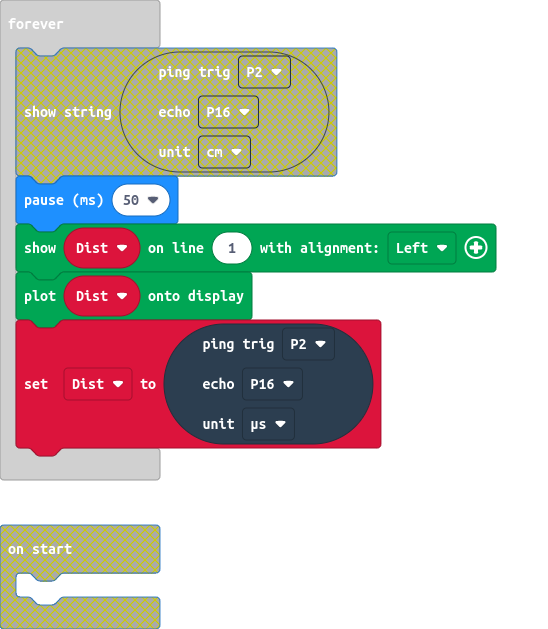
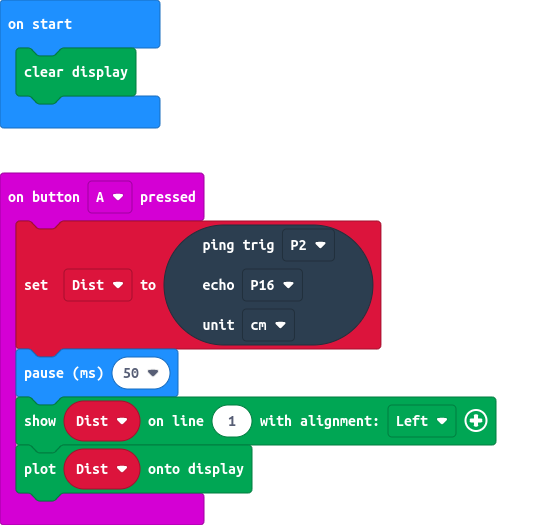
set to maual reading via A_Button

diff --git a/main.ts b/main.ts
@@ -1,11 +1,15 @@
-let Dist = 0
-basic.forever(function () {
+input.onButtonPressed(Button.A, function () {
     Dist = sonar.ping(
     DigitalPin.P2,
     DigitalPin.P16,
-    PingUnit.MicroSeconds
+    PingUnit.Centimeters
     )
     basic.pause(50)
     kitronik_VIEW128x64.show(Dist, 1, kitronik_VIEW128x64.ShowAlign.Left)
     kitronik_VIEW128x64.plot(Dist)
+})
+let Dist = 0
+kitronik_VIEW128x64.clear()
+basic.forever(function () {
+	
 })
